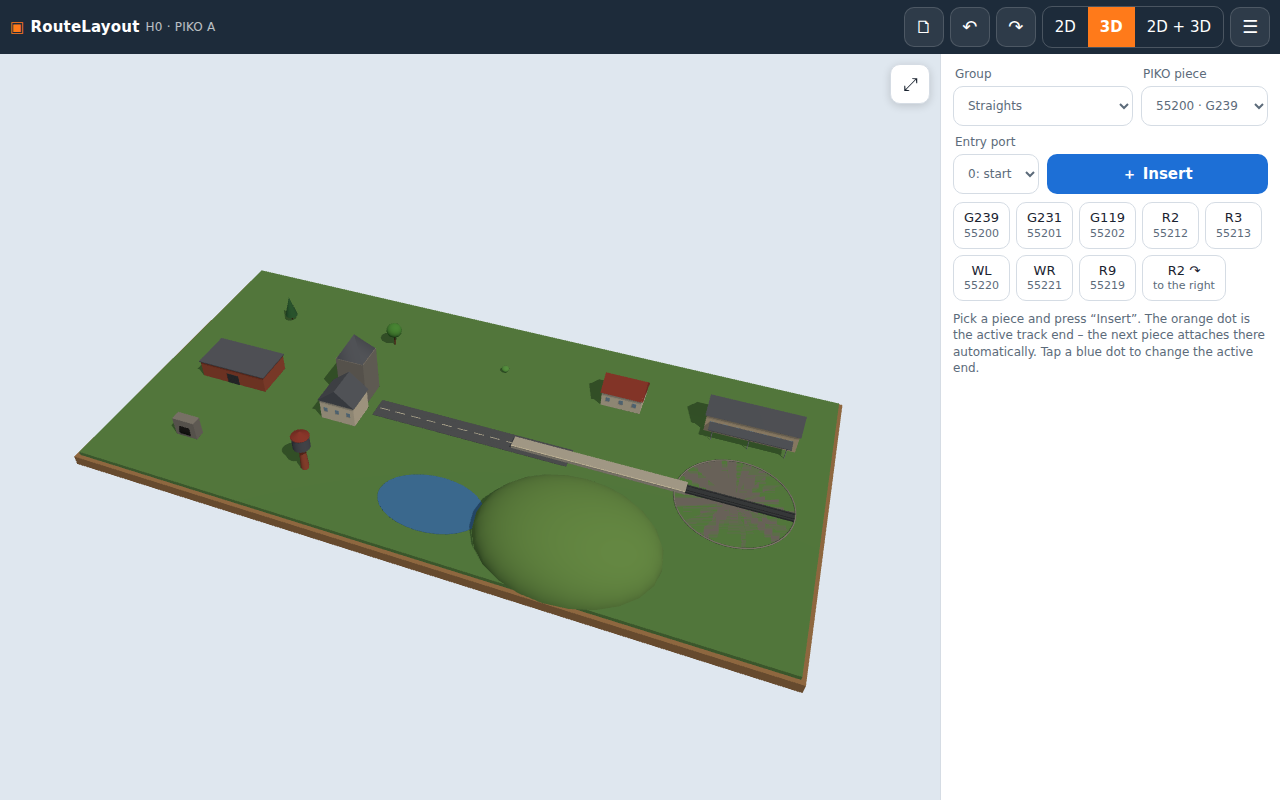
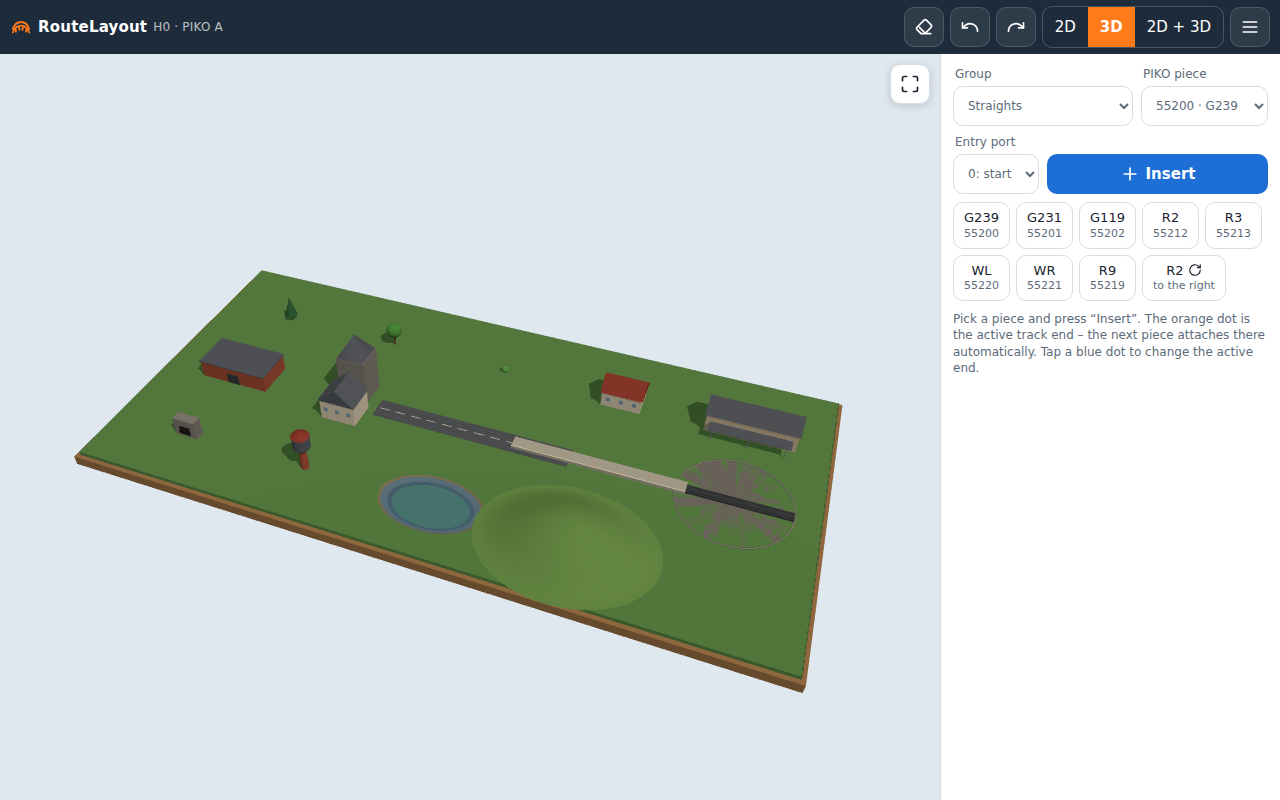
Gentle hill profile; pond as a hollow in the baseboard with translucent water

diff --git a/js/scenery.js b/js/scenery.js
@@ -105,6 +105,29 @@ const DRAW2D = {
 
 // ---- 3D -------------------------------------------------------------------------
 
+/**
+ * Eliptyczny "garb" o profilu z(r) = H·(1−r²)^p (p=2: zerowe nachylenie przy
+ * krawędzi – łagodne wzgórze; p=1: paraboloida – niecka stawu przy H < 0).
+ */
+export function bumpGeometry(rx, rz, H, rings = 16, segs = 40, p = 2) {
+  const pos = [], idx = [];
+  pos.push(0, H, 0);
+  for (let i = 1; i <= rings; i++) {
+    const r = i / rings, y = H * Math.pow(1 - r * r, p);
+    for (let j = 0; j < segs; j++) { const a = (j / segs) * Math.PI * 2; pos.push(rx * r * Math.cos(a), y, rz * r * Math.sin(a)); }
+  }
+  for (let j = 0; j < segs; j++) idx.push(0, 1 + ((j + 1) % segs), 1 + j);
+  for (let i = 1; i < rings; i++) {
+    const a0 = 1 + (i - 1) * segs, b0 = 1 + i * segs;
+    for (let j = 0; j < segs; j++) { const j1 = (j + 1) % segs; idx.push(a0 + j, b0 + j1, b0 + j, a0 + j, a0 + j1, b0 + j1); }
+  }
+  const geo = new THREE.BufferGeometry();
+  geo.setAttribute('position', new THREE.Float32BufferAttribute(pos, 3));
+  geo.setIndex(idx);
+  geo.computeVertexNormals();
+  return geo;
+}
+
 const mats = {};
 const mat = (color, extra = {}) => (mats[color + JSON.stringify(extra)] ||= new THREE.MeshStandardMaterial({ color, roughness: 0.9, ...extra }));
 
@@ -155,6 +178,15 @@ const BUILD3D = {
   turntable: (g, w) => { const r = w / 2; const pit = new THREE.Mesh(new THREE.CylinderGeometry(r, r, 4, 40), mat(C.pit)); pit.position.y = -2; g.add(pit); const ring = new THREE.Mesh(new THREE.TorusGeometry(r, 2, 8, 40), mat(C.stone)); ring.rotation.x = Math.PI / 2; ring.position.y = 1; g.add(ring); const bridge = new THREE.Mesh(new THREE.BoxGeometry(2 * r - 6, 6, 28), mat(C.bridge)); bridge.position.y = 3; g.add(bridge); for (const z of [-8.25, 8.25]) { const rail = new THREE.Mesh(new THREE.BoxGeometry(2 * r - 6, 2.5, 1.2), mat(C.steel, { metalness: 0.8, roughness: 0.35 })); rail.position.set(0, 7.2, z); g.add(rail); } },
   portal: (g, w, h) => { const wall = new THREE.Mesh(new THREE.BoxGeometry(w, 60, h), mat(C.stone)); wall.position.y = 30; g.add(wall); const hole = new THREE.Mesh(new THREE.CylinderGeometry(w * 0.3, w * 0.3, h + 2, 16, 1, false, 0, Math.PI), mat(0x111111)); hole.rotation.x = Math.PI / 2; hole.rotation.z = Math.PI / 2; hole.position.y = 22; g.add(hole); },
   watertower: (g, w) => { const r = w / 2; const legs = new THREE.Mesh(new THREE.CylinderGeometry(r * 0.35, r * 0.5, 80, 8), mat(C.brick)); legs.position.y = 40; g.add(legs); const tank = new THREE.Mesh(new THREE.CylinderGeometry(r, r, 40, 16), mat(C.roof2)); tank.position.y = 100; g.add(tank); const cap = new THREE.Mesh(new THREE.ConeGeometry(r + 2, 16, 16), mat(C.roof)); cap.position.y = 128; g.add(cap); },
-  pond: (g, w, h) => { const m = new THREE.Mesh(new THREE.CylinderGeometry(1, 1, 1, 32), mat(C.water, { metalness: 0.2, roughness: 0.25 })); m.scale.set(w / 2, 1.5, h / 2); m.position.y = 0.75; g.add(m); },
-  hill: (g, w, h) => { const m = new THREE.Mesh(new THREE.SphereGeometry(1, 24, 12, 0, Math.PI * 2, 0, Math.PI / 2), mat(C.hill)); m.scale.set(w / 2, Math.min(w, h) * 0.35, h / 2); g.add(m); },
+  pond: (g, w, h) => {
+    // wydrążona niecka poniżej blatu (blat ma w tym miejscu otwór – patrz view3d) + przezroczysta tafla
+    const depth = Math.min(28, Math.min(w, h) * 0.12);
+    const bowl = new THREE.Mesh(bumpGeometry(w / 2, h / 2, -depth, 12, 40, 1), mat(0x8a7f62, { side: THREE.DoubleSide }));
+    g.add(bowl);
+    const water = new THREE.Mesh(new THREE.CircleGeometry(1, 48), mat(C.water, { transparent: true, opacity: 0.55, metalness: 0.1, roughness: 0.15, depthWrite: false, side: THREE.DoubleSide }));
+    water.rotation.x = -Math.PI / 2; water.scale.set(w / 2 - 1, h / 2 - 1, 1); water.position.y = -2.5;
+    water.renderOrder = 2; water.castShadow = false;
+    g.add(water);
+  },
+  hill: (g, w, h) => { const m = new THREE.Mesh(bumpGeometry(w / 2, h / 2, Math.min(w, h) * 0.22, 20, 48, 2), mat(C.hill)); g.add(m); },
 };

diff --git a/js/view3d.js b/js/view3d.js
@@ -118,11 +118,27 @@ export class View3D {
     // blat
     const { w, h } = this.layout.board;
     if (this.boardMesh) { this.scene.remove(this.boardMesh); this.boardMesh.children.forEach((m) => m.geometry.dispose()); }
+    this.mats.board.side = THREE.DoubleSide;
     const board = new THREE.Group();
-    const top = new THREE.Mesh(new THREE.BoxGeometry(w, 12, h), this.mats.board);
-    top.position.set(w / 2, -6, h / 2);
+    // górna płyta jako kształt z otworami pod stawami (widać wydrążone niecki)
+    const shape = new THREE.Shape([new THREE.Vector2(0, 0), new THREE.Vector2(w, 0), new THREE.Vector2(w, h), new THREE.Vector2(0, h)]);
+    for (const it of this.layout.scenery) {
+      if (it.type !== 'pond') continue;
+      const hole = new THREE.Path();
+      hole.absellipse(it.x, it.y, it.w / 2 - 0.5, it.h / 2 - 0.5, 0, Math.PI * 2, false, it.rot * Math.PI / 180);
+      shape.holes.push(hole);
+    }
+    const topGeo = new THREE.ShapeGeometry(shape, 24);
+    topGeo.rotateX(Math.PI / 2);            // płaszczyzna XY -> XZ (y kształtu = z sceny)
+    const top = new THREE.Mesh(topGeo, this.mats.board);
     top.receiveShadow = true;
     board.add(top);
+    // korpus blatu poniżej płyty bez wierzchu (żeby niecki stawów były widoczne): 4 ściany + spód
+    const T = 12;
+    for (const [bx, by, bz, sx, sz] of [[w / 2, -T / 2, 1, w, 2], [w / 2, -T / 2, h - 1, w, 2], [1, -T / 2, h / 2, 2, h], [w - 1, -T / 2, h / 2, 2, h]]) {
+      const wall = new THREE.Mesh(new THREE.BoxGeometry(sx, T, sz), this.mats.board); wall.position.set(bx, by, bz); board.add(wall);
+    }
+    const bottom = new THREE.Mesh(new THREE.BoxGeometry(w, 1, h), this.mats.board); bottom.position.set(w / 2, -T + 0.5, h / 2); board.add(bottom);
     const frame = new THREE.Mesh(new THREE.BoxGeometry(w + 24, 30, h + 24), this.mats.edge);
     frame.position.set(w / 2, -27, h / 2);
     board.add(frame);
